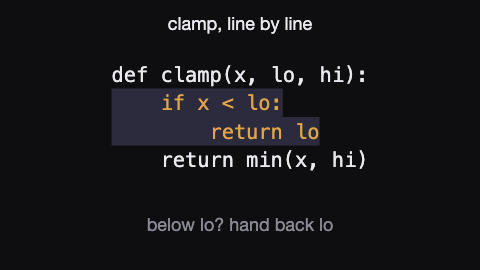
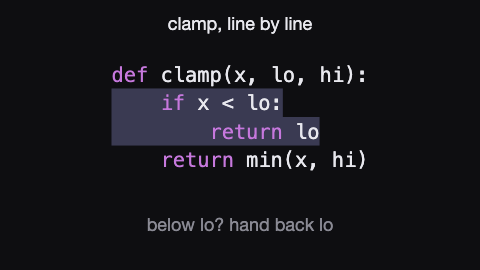
Add syntax highlighting: `theme` on code blocks
A built-in theme name or a token-kind -> color mapping. Applied in the renderer
as a fill layer between the block's fill and its spans, so spans still win and
the JSON does not grow. The example now uses the default theme and highlights
with background pulses only.

Claude-Session: https://claude.ai/code/session_017nF6vWer9U5v27chkUCE1Y

diff --git a/src/buttery/objects.py b/src/buttery/objects.py
@@ -6,7 +6,8 @@ from typing import Annotated, Any, ClassVar, Iterator, Literal, Union
 
 from pydantic import BaseModel, ConfigDict, Field, field_validator, model_validator
 
-from .code import Token, python_tokens, resolve_selection
+from .code import Theme, Token, TokenKind, python_tokens, resolve_selection, theme_colors
+from .color import Color
 from .expr import ColorExpr, Expr, Kind, Ref
 
 _ID_PATTERN = r"^[A-Za-z_][A-Za-z0-9_]*$"
@@ -156,7 +157,8 @@ class Code(SceneObject):
     Characters sit on a fixed grid: column c of row r is at (x + c * char_width * size, y - r * line_height * size).
     The grid, not the font, decides the layout, so positions are the same on every machine and can be computed
     without a renderer (`width`, `height`). `spans` style parts of the snippet; `select()` is the sugar for adding one.
-    Only `token` selection needs the snippet to be valid Python; `line` and `chars` work on any text.
+    `theme` colors Python tokens by kind (spans still win). Only `token` selection and `theme` need the snippet to be
+    valid Python; `line` and `chars` work on any text.
     """
 
     type: Literal["code"] = "code"
@@ -168,6 +170,11 @@ class Code(SceneObject):
     font: str | None = Field(default=None, description="Monospace family name. Null = Menlo / Consolas / DejaVu Sans Mono / Courier.")
     char_width: float = Field(default=0.6, gt=0, description="Column pitch as a multiple of `size` (0.6 matches most monospace fonts).")
     line_height: float = Field(default=1.4, gt=0, description="Row pitch as a multiple of `size`.")
+    theme: str | dict[TokenKind, Color] | None = Field(
+        default=None,
+        description="Syntax highlighting: a built-in theme name ('default') or a mapping of token kind "
+        "(keyword, name, number, string, op, comment) to color. Kinds not listed keep `fill`. Null = no highlighting.",
+    )
     spans: list[Span] = Field(default_factory=list)
 
     @field_validator("content")
@@ -176,6 +183,16 @@ class Code(SceneObject):
         if "\t" in v:
             raise ValueError("use spaces, not tabs: the grid is one character per column")
         return v
+
+    @field_validator("theme")
+    @classmethod
+    def _known_theme(cls, v: Any) -> Any:
+        theme_colors(v)  # raises for an unknown built-in name
+        return v
+
+    def theme_colors(self) -> Theme:
+        """Token kind -> color for this block's theme (empty when there is no theme)."""
+        return theme_colors(self.theme)
 
     def select(self, id: str, **spec: Any) -> Span:
         """Add a span. `line`, `token`, `nth`, `chars` pick the characters; the rest are Span properties."""

diff --git a/tests/test_code.py b/tests/test_code.py
@@ -132,3 +132,44 @@ def test_span_opacity_multiplies_like_a_group():
     code.opacity = 0.0  # the block's opacity wins even where a span says 1
     code.select("show_a", chars=(0, 1), opacity=1.0)
     assert not (_frame(code) > 0).any()
+
+
+def test_theme_colors_tokens_under_spans():
+    # "if" is a keyword (purple in the default theme); the span on "f" recolors just that cell
+    code = Code("c", content="if", size=1.0, x=-0.6, y=0.7, theme="default")
+    code.select("s", chars=(1, 2), fill="red")
+    img = _frame(code)
+    a, b = _cells()
+    purple = (img[..., 0] > 150) & (img[..., 1] < 150) & (img[..., 2] > 150)
+    red = (img[..., 0] > 200) & (img[..., 1] < 60) & (img[..., 2] < 60)
+    assert purple[a].any() and not red[a].any()
+    assert red[b].any() and not purple[b].any()
+
+
+def test_custom_theme_and_unthemed_kinds_keep_fill():
+    code = Code("c", content="if", size=1.0, x=-0.6, y=0.7, theme={"comment": "red"})  # keywords not listed
+    img = _frame(code)
+    a, _ = _cells()
+    cell = img[a]
+    assert ((cell[..., 0] > 200) & (cell[..., 1] > 200) & (cell[..., 2] > 200)).any()  # still white
+    assert code.theme_colors() == {"comment": code.theme["comment"]}
+    assert Code("d", content="x", theme="default").theme_colors()["keyword"].startswith("#")
+
+
+def test_theme_errors():
+    with pytest.raises(ValueError, match="unknown theme 'neon'"):
+        Code("c", content="x", theme="neon")
+    with pytest.raises(ValueError, match="'kw' is not a valid|Input should be"):
+        Code("c", content="x", theme={"kw": "red"})
+    with pytest.raises(SceneValidationError) as exc:
+        Scene.from_json({"duration": 1, "objects": [{"id": "c", "type": "code", "content": "s = 'open", "theme": "default"}]})
+    (err,) = exc.value.errors
+    assert err.path == "objects[0].theme" and err.property == "theme" and "valid Python" in err.message
+    Scene.from_json({"duration": 1, "objects": [{"id": "c", "type": "code", "content": "s = 'open"}]})  # fine without a theme
+
+
+def test_theme_roundtrips_through_json():
+    code = Code("c", content="x = 1  # one", theme={"comment": "#5c6370", "number": "coral"})
+    scene = Scene(duration=1).add(code)
+    again = Scene.from_json(scene.to_json())
+    assert again == scene and again.state(0)["objects"][0]["theme"] == {"comment": "#5c6370", "number": "coral"}

diff --git a/examples/code_walk.py b/examples/code_walk.py
@@ -3,8 +3,8 @@
 A `code` block lays its characters on a fixed grid (0.6 * size per column, line_height * size per row), so a
 selection by line, by Python token, or by character range is just a run of cells. The function is revealed a
 line per beat (one span per line, opacity 0 -> 1), then a caption walks through it. Each step selects the
-part it talks about with spans: `fill` tweens the characters to the accent color and `background` tweens
-from `transparent` to a highlight and back, so the highlight fades while the code underneath stays put.
+part it talks about with spans whose `background` tweens from `transparent` to a highlight and back, so the
+highlight fades while the code underneath, colored by the built-in syntax theme, stays put.
 """
 
 from buttery import Code, Scene, Text, keyframes
@@ -16,13 +16,12 @@ SRC = "\n".join([
     "    return min(x, hi)",
 ])
 
-BG, INK, MUTED = "#0e0e11", "#e8e8ee", "#8a8a94"
-ACCENT, HI_BG = "#e0a54a", "#2b2b3d"
+BG, INK, MUTED, HI_BG = "#0e0e11", "#e8e8ee", "#8a8a94", "#3a3a52"
 SIZE = 0.34
 REVEAL_AT, REVEAL_EACH, REVEAL_DUR = 0.6, 0.55, 0.45
 HOLD, RAMP = 2.8, 0.3
 
-code = Code("fn", content=SRC, size=SIZE, fill=INK)
+code = Code("fn", content=SRC, size=SIZE, fill=INK, theme="default")
 code.x = -code.width / 2                 # the grid makes the block's size known without rendering
 code.y = code.height / 2 + 0.3
 
@@ -50,9 +49,7 @@ captions = []
 for k, (text, selections) in enumerate(STEPS):
     t0, t1 = T0 + k * HOLD, T0 + (k + 1) * HOLD
     for j, sel in enumerate(selections):
-        code.select(f"step{k}_{j}", **sel,
-                    fill=keyframes(window(t0, t1, INK, ACCENT), ease="out_quad"),
-                    background=keyframes(window(t0, t1, "transparent", HI_BG), ease="out_quad"))
+        code.select(f"step{k}_{j}", **sel, background=keyframes(window(t0, t1, "transparent", HI_BG), ease="out_quad"))
     captions.append(Text(f"cap{k}", content=text, y=-1.5, size=0.3, fill=MUTED,
                          opacity=keyframes(window(t0, t1, 0, 1), ease="out_quad")))
 

diff --git a/src/buttery/render.py b/src/buttery/render.py
@@ -16,7 +16,7 @@ from typing import TYPE_CHECKING, Any, Callable
 import numpy as np
 import skia
 
-from .code import line_ranges
+from .code import line_ranges, python_tokens, theme_colors
 from .color import parse_color
 from .errors import RenderError
 
@@ -165,8 +165,8 @@ class Rasterizer:
         """Monospace block on a fixed grid, top-left at (x, y): column pitch `char_width * size`, row pitch
         `line_height * size`. Every character is drawn on its own at its grid cell, which is exactly right for a
         monospace font (no kerning) and keeps the layout identical whatever font is actually found. A character's
-        fill comes from the last span covering it (else the block); its alpha is the block's times every covering
-        span's opacity, the same rule a group applies to its children.
+        fill is layered: the block's `fill`, then its token's theme color, then the last span covering it. Its alpha
+        is the block's times every covering span's opacity, the same rule a group applies to its children.
         """
         content = o["content"]
         if not content or o["size"] <= 0:
@@ -174,6 +174,13 @@ class Rasterizer:
         n = len(content)
         fills: list[str | None] = [o["fill"]] * n
         alphas = [a] * n
+        colors = theme_colors(o["theme"])
+        if colors:
+            for tok in python_tokens(content):  # cached per snippet
+                color = colors.get(tok.kind)
+                if color is not None:
+                    for i in range(tok.start, tok.end):
+                        fills[i] = color
         for span in o["spans"]:
             sa = _clamp01(span["opacity"])
             for i in range(span["start"], span["end"]):

diff --git a/src/buttery/code.py b/src/buttery/code.py
@@ -118,4 +118,28 @@ def resolve_selection(
     raise ValueError("a span needs at least one of: line, token, chars")
 
 
-__all__ = ["Token", "TokenKind", "line_range", "line_ranges", "python_tokens", "resolve_selection"]
+# --------------------------------------------------------------------------- syntax highlighting
+
+Theme = dict[TokenKind, str]
+
+THEMES: dict[str, Theme] = {
+    # Kinds left out keep the block's `fill`; here names and operators stay in the ink color.
+    "default": {"keyword": "#c678dd", "string": "#98c379", "number": "#d19a66", "comment": "#5c6370"},
+}
+
+
+def theme_colors(theme: str | Theme | None) -> Theme:
+    """Resolve a theme value (built-in name, custom mapping, or None) to token kind -> color."""
+    if theme is None:
+        return {}
+    if isinstance(theme, str):
+        if theme not in THEMES:
+            raise ValueError(f"unknown theme {theme!r}; built-in themes: {', '.join(THEMES)}")
+        return THEMES[theme]
+    return theme
+
+
+__all__ = [
+    "THEMES", "Theme", "Token", "TokenKind", "line_range", "line_ranges", "python_tokens", "resolve_selection",
+    "theme_colors",
+]

diff --git a/src/buttery/scene.py b/src/buttery/scene.py
@@ -113,6 +113,11 @@ class Scene(BaseModel):
 
         for obj, path in walk(self.objects):
             if isinstance(obj, Code):
+                if obj.theme is not None:
+                    try:
+                        obj.tokens()
+                    except ValueError as exc:
+                        errors.append(SceneError(path=f"{path}.theme", message=f"theme needs valid Python: {exc}", object=obj.id, property="theme"))
                 for j, span in enumerate(obj.spans):
                     try:
                         obj.span_range(span)

diff --git a/README.md b/README.md
@@ -16,8 +16,8 @@ edges follow the rotation for free. The before/after trees are two tuples; the s
 
 ![Walking through a function, one line at a time](https://raw.githubusercontent.com/fletchgraham/buttery/main/examples/code_walk.gif)
 
-*`examples/code_walk.py`: a `code` block reveals a line per beat, then spans select by Python token, by line,
-and by character range to highlight what each caption talks about.*
+*`examples/code_walk.py`: a syntax-highlighted `code` block reveals a line per beat, then spans select by Python
+token, by line, and by character range to highlight what each caption talks about.*
 
 ```
 Agent tool surface   validate / state / preview / render     (tools.py, cli.py, mcp_server.py)
@@ -85,7 +85,8 @@ prints the JSON schema from `Scene.model_json_schema()`.
 **Coordinates**: world units, origin at center, y up. The frame is `view_width` (default 8) units wide.
 **Primitives**: `circle rect line text code group`. `text` wraps at `max_width` and honors newlines. `code` is a
 monospace block on a fixed character grid; its `spans` select characters by `line`, by Python `token`, or by
-`chars` range and give them their own `fill`, `background` and `opacity`. **Ops**: `add sub mul div neg sin cos abs min max clamp smoothstep noise`.
+`chars` range and give them their own `fill`, `background` and `opacity`; `theme: "default"` (or a kind -> color
+mapping) syntax-highlights Python tokens. **Ops**: `add sub mul div neg sin cos abs min max clamp smoothstep noise`.
 **Eases**: `linear in_quad out_quad in_out_quad out_cubic in_out_cubic spring`. Colors: hex or CSS names;
 `fill`/`stroke` can be tweened between colors.
 
@@ -122,7 +123,7 @@ src/buttery/
   expr.py        AST models (Op, Tween, Ref), operator overloading, sugar (T, sin, tween, keyframes, ...)
   parse.py       shorthand parser -> AST, constant folding
   objects.py     Circle, Rect, Line, Text, Code (+ Span), Group
-  code.py        Python tokenizer and line / token / chars selection -> character ranges
+  code.py        Python tokenizer, line / token / chars selection -> character ranges, highlight themes
   scene.py       Scene, semantic checks, state(t)
   evaluate.py    compile + topological evaluation
   render.py      skia rasterizer, motion blur, parallel render, ffmpeg

diff --git a/skill/reference.md b/skill/reference.md
@@ -81,6 +81,10 @@ Parts of the snippet are selected with `spans`, each with an `id` and animatable
 - **Reveal line by line**: one span per line with `opacity` tweening 0 -> 1 on its beat.
 - **Highlight, then let go**: tween `background` from `"transparent"` to a color and back; tween `fill` from
   the block's color to an accent and back. The first key holds before its time, so the span is invisible until then.
+- **Syntax highlighting**: `"theme": "default"` colors keywords, strings, numbers and comments (names and
+  operators keep `fill`). A custom theme is a mapping, e.g. `{"keyword": "coral", "comment": "#666"}`; kinds are
+  `keyword name number string op comment`. Theme colors sit under spans, so a span `fill` still wins; to highlight
+  without losing token colors, tween a span's `background` only.
 - Python: `code.select("kw", token="return", fill="coral")` builds and appends the span, and fails at once if
   the selector does not resolve. See `examples/code_walk.py`.
 

diff --git a/BUILD_LOG.md b/BUILD_LOG.md
@@ -39,3 +39,7 @@ Order of work, bottom up. Each step was smoke-tested before the next.
   token, character range) resolves to one canonical `[start, end)` range, which is all the evaluator and
   renderer see; span opacity multiplies like a group's so a per-line reveal and a later highlight compose.
   Syntax highlighting is a later step on top of `code.python_tokens` (each token already carries a kind).
+- **Syntax highlighting** (2026-09-08). `theme` on `code`: a built-in name or a token-kind -> color mapping
+  (`code.THEMES`, `theme_colors`). Applied in the renderer as one more fill layer between the block's `fill` and
+  its spans, so nothing else changed: no new objects, no JSON growth, spans still win. Validation checks the
+  theme name structurally and that the snippet tokenizes semantically (`objects[i].theme`).
